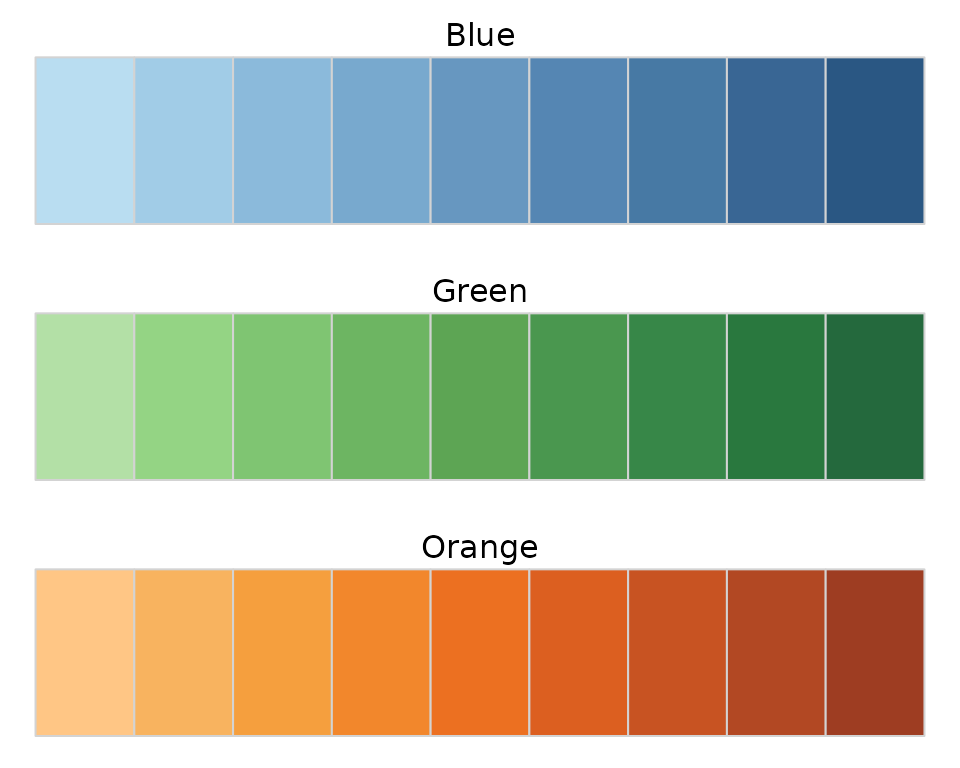
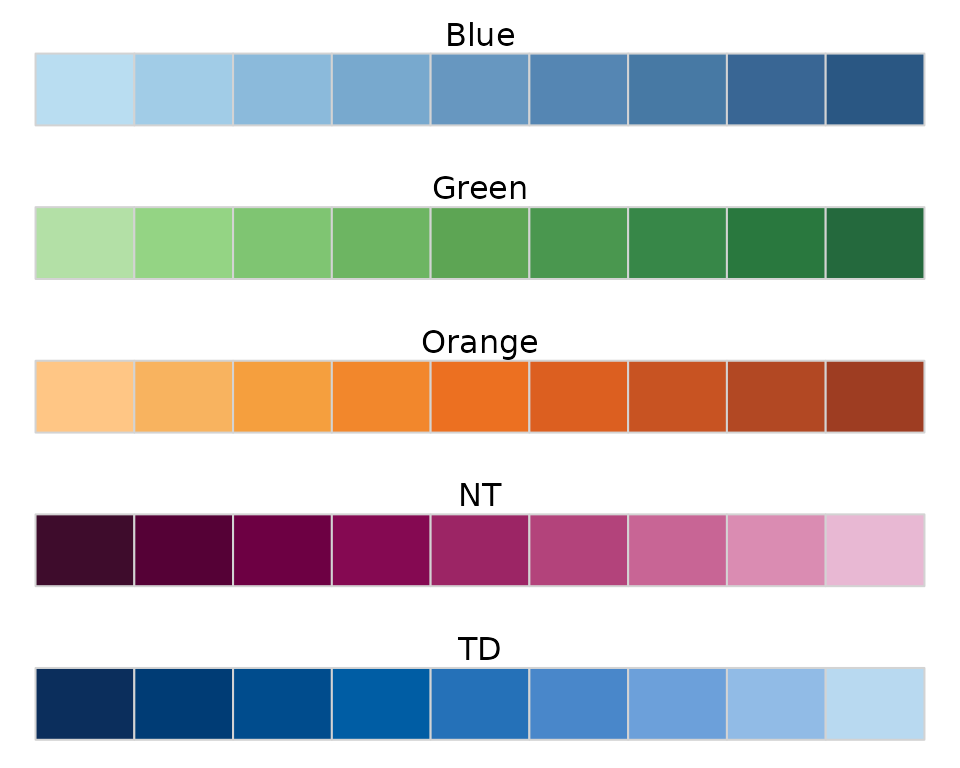
Deploying to gh-pages from @ ipeadata-lab/ipeaplot@91ff94541fb6ef5bbba611c25af0cf8580629ddb 🚀

diff --git a/articles/intro_ipeaplot.html b/articles/intro_ipeaplot.html
@@ -167,8 +167,17 @@ a mesma lógica e parâmetros.</p>
 entre as opções de paletas utilizadas pelo Editorial do Ipea. O padrão
 da função é a paleta <code>"Blue"</code>, mas o parâmetro pode receber
 diversas outras opções. Isso inclui tanto paletas com cores sequenciais
-(<code>"Blue", "Green", "Orange", "Pink"</code>), quanto paletes com
-cores divergentes (<code>"Red-Blue", "Orange-Blue"</code>).</p>
+(<code>"Blue", "Green", "Orange", "Pink", "NT", "TD"</code>), quanto
+paletes com cores divergentes
+(<code>"Red-Blue", "Orange-Blue"</code>).</p>
+<p>As paletas <code>"NT"</code> e <code>"TD"</code> são baseadas nas
+cores de capa, título de seção e gráficos de duas séries editoriais do
+Ipea (Nota Técnica e Texto para Discussão, respectivamente). Quando
+usadas com uma variável discreta, <code><a href="../reference/scale_color_ipea.html">scale_color_ipea()</a></code> e
+<code><a href="../reference/scale_fill_ipea.html">scale_fill_ipea()</a></code> alternam automaticamente para as
+variantes qualitativas <code>"NT-Categorical"</code> e
+<code>"TD-Categorical"</code>, sem que seja necessário informar esse
+sufixo.</p>
 <p><strong>Cores sequenciais:</strong>
 <img src="intro_ipeaplot_files/figure-html/unnamed-chunk-5-1.png" class="r-plt" alt="" width="50%" style="display: block; margin: auto;"></p>
 <p><strong>Cores divergentes:</strong>

diff --git a/articles/intro_ipeaplot.md b/articles/intro_ipeaplot.md
@@ -109,8 +109,19 @@ O parâmetro `palette` permite escolher uma paleta de cores entre as
 opções de paletas utilizadas pelo Editorial do Ipea. O padrão da função
 é a paleta `"Blue"`, mas o parâmetro pode receber diversas outras
 opções. Isso inclui tanto paletas com cores sequenciais
-(`"Blue", "Green", "Orange", "Pink"`), quanto paletes com cores
-divergentes (`"Red-Blue", "Orange-Blue"`).
+(`"Blue", "Green", "Orange", "Pink", "NT", "TD"`), quanto paletes com
+cores divergentes (`"Red-Blue", "Orange-Blue"`).
+
+As paletas `"NT"` e `"TD"` são baseadas nas cores de capa, título de
+seção e gráficos de duas séries editoriais do Ipea (Nota Técnica e Texto
+para Discussão, respectivamente). Quando usadas com uma variável
+discreta,
+[`scale_color_ipea()`](https://ipeadata-lab.github.io/ipeaplot/reference/scale_color_ipea.md)
+e
+[`scale_fill_ipea()`](https://ipeadata-lab.github.io/ipeaplot/reference/scale_fill_ipea.md)
+alternam automaticamente para as variantes qualitativas
+`"NT-Categorical"` e `"TD-Categorical"`, sem que seja necessário
+informar esse sufixo.
 
 **Cores sequenciais:**
 ![](intro_ipeaplot_files/figure-html/unnamed-chunk-5-1.png)